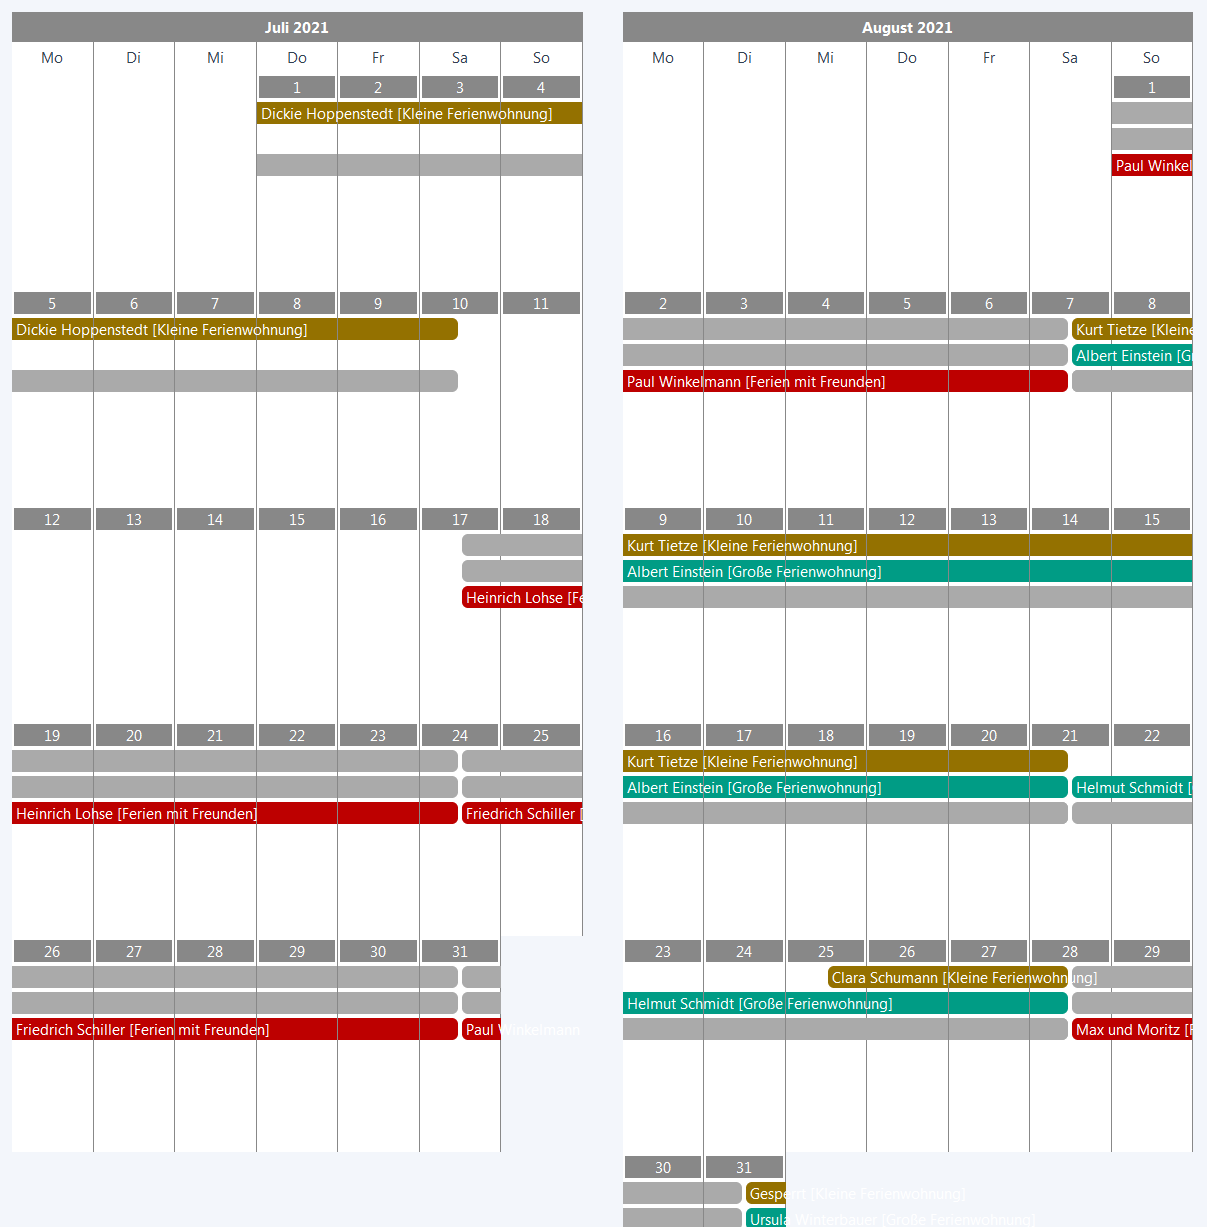
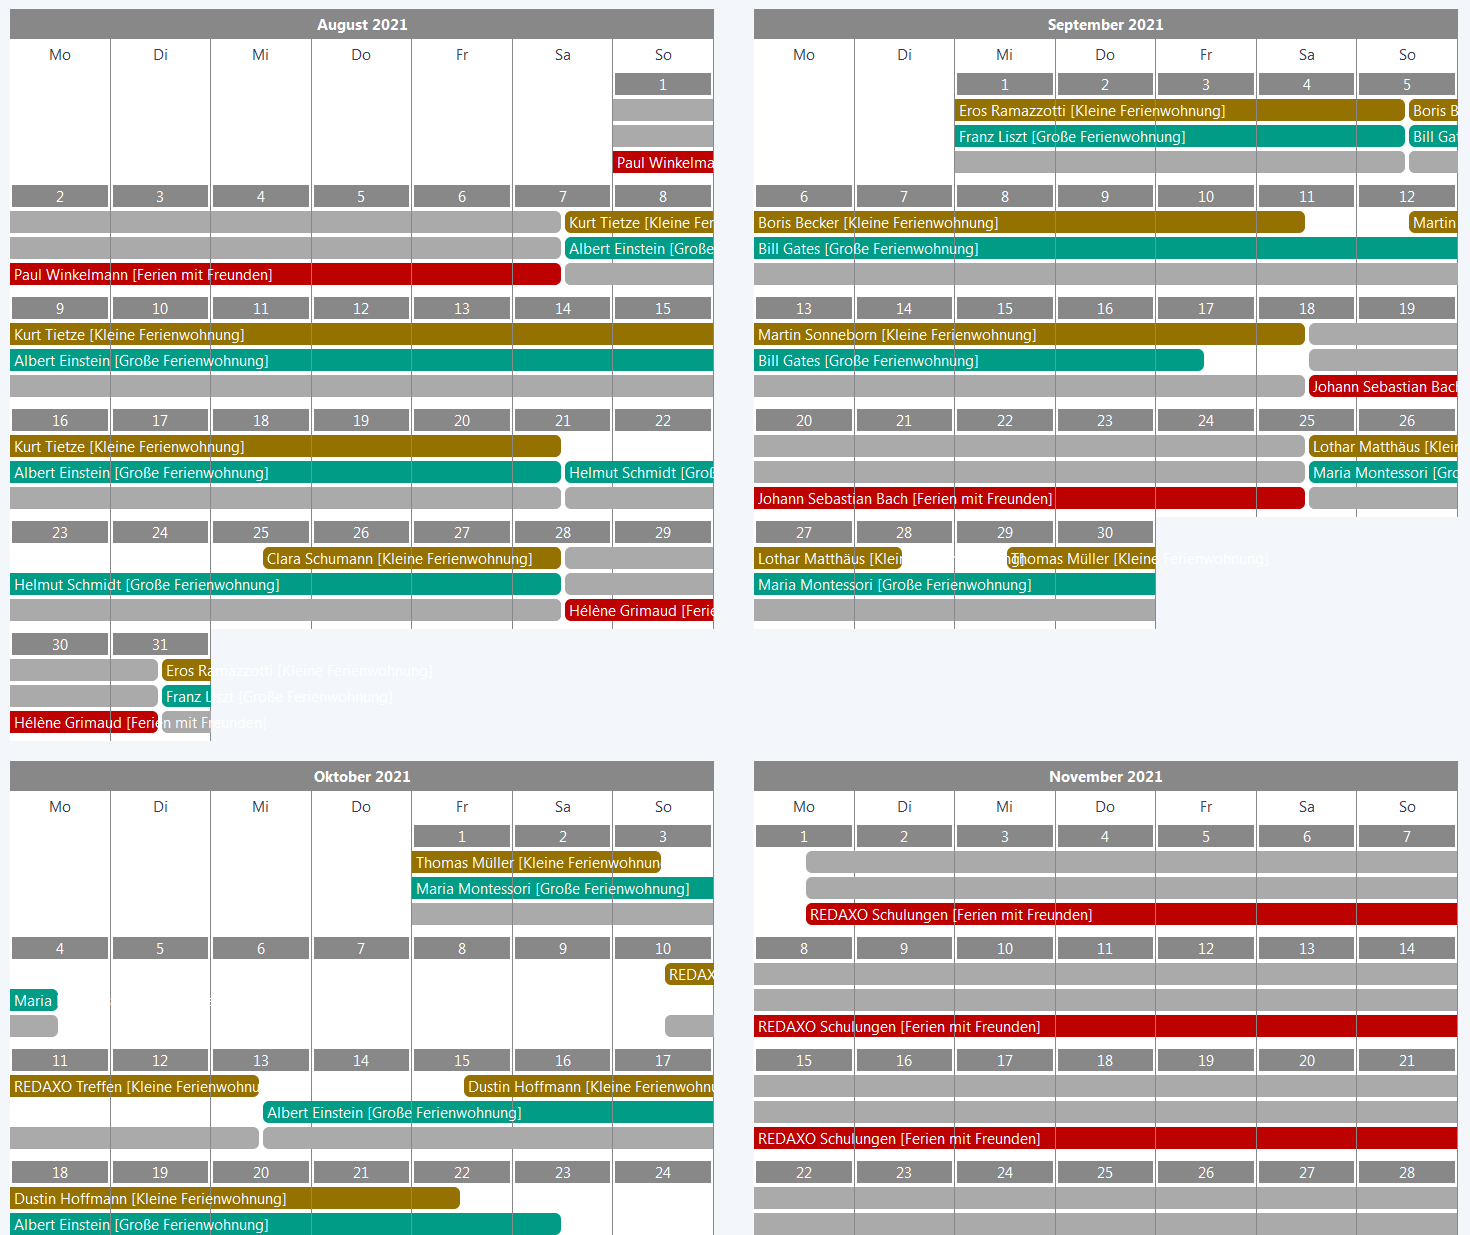
V 1.1.1 - Kollisionsprüfung im Backend

diff --git a/lib/buka_booking.php b/lib/buka_booking.php
@@ -55,14 +55,42 @@ class buka_booking extends rex_yform_manager_dataset {
         return time()+$sek;
     }
 
-    public static function is_booked($anreise = '', $abreise = '', $object_id = 0) {
-        $query = self::get_query($object_id)
-                        ->where('status','confirmed')
-                        ->whereRaw('((dateend > :anreise AND dateend < :abreise) '
-                        . 'OR (datestart > :anreise AND datestart < :abreise) '
-                        . 'OR (datestart <= :anreise AND dateend >= :abreise))',['anreise'=>$anreise,'abreise'=>$abreise]);
-
+    /**
+     * 
+     * $data_id kann verwendet werden, um den aktuellen Datensatz von der Prüfung auszunehmen
+     * 
+     */
+    public static function is_booked($anreise = '', $abreise = '', $object_id = 0, $data_id = 0) {
+        $query = self::get_query($object_id);
+        if ($data_id) {
+            $query->whereNot('id',$data_id);
+        }
+        if (rex_config::get('buchungskalender','asked_offset')) {
+            $query->whereRaw('((
+                status = "confirmed" AND ((dateend >= :anreise AND datestart <= :abreise)
+                 OR (dateend <= :anreise AND datestart >= :abreise)
+                 OR (datestart >= :anreise AND datestart <= :abreise))
+             
+                ) OR (status = "asked" AND bookingdate > :bookingdate))',['anreise'=>$anreise,'abreise'=>$abreise,'bookingdate'=>date('Y-m-d H:i:s',strtotime('-'.rex_config::get('buchungskalender','asked_offset')))])
+            ;
+        } else {
+                $query->where('status','confirmed')
+                ->whereRaw('((dateend > :anreise AND dateend < :abreise) '
+                . 'OR (datestart > :anreise AND datestart < :abreise) '
+                . 'OR (datestart <= :anreise AND dateend >= :abreise))',['anreise'=>$anreise,'abreise'=>$abreise]);
+        }
         return $query->exists();
+    }
+
+
+    /**
+     * Kann im yform als Validate Funktion verwendet werden.
+     */
+    public static function unique_booking ($fields,$values) {
+        $data_id = rex_request('data_id','int');
+        if (buka_booking::is_booked($values['datestart'],$values['dateend'],$values['object_id'],$data_id)) {
+            return true;
+        }
     }
 
     public static function reset_booking () {

diff --git a/pages/bookings.php b/pages/bookings.php
@@ -8,7 +8,7 @@ $row_end = '</div></div>';
 
 $params = $_REQUEST;
 $func = rex_request('func','string');
-$id = rex_request('id','int');
+$id = rex_request('data_id','int');
 
 $qry = buka_booking::get_query();
 
@@ -29,7 +29,7 @@ if ($func == 'edit' && $id) {
     $yform->setValueField('hidden',['page','buchungskalender/bookings','REQUEST','no_db']);
     $yform->setValueField('hidden',['func','edit','REQUEST','no_db']);
     $yform->setValueField('hidden',['src',rex_request('src','string'),'REQUEST','no_db']);
-    $yform->setValueField('hidden',['id',$id,'REQUEST']);
+    $yform->setValueField('hidden',['data_id',$id,'REQUEST','no_db']);
 //    $yform->setDebug(TRUE);
     $yform->setObjectparams('form_showformafterupdate', 0);
     $yform->setObjectparams('getdata', true);
@@ -86,6 +86,8 @@ if ($func == 'edit' && $id) {
     $yform->setValueField('text', ['price','Preis']);
     $yform->setValueField('html',['',$row_end]);
 
+    $yform->setValidateField('customfunction', ['datestart,dateend,object_id','buka_booking::unique_booking','','Dieses Buchungsdatum ist ungültig. Es gibt bereits eine Buchung für dieses Datum.','0']);
+
     $yform->setValueField('be_manager_relation', ['participants','Teilnehmer','rex_buka_participants','booking_id','5','0']);
 
     $yform->setActionField('db',[rex::getTable('buka_bookings'),'main_where']);
@@ -132,7 +134,7 @@ if ($func == 'edit' && $id) {
     // $th_icon = '<a href="'.$list->getUrl(['func' => 'add']).'" title="'.rex_i18n::msg('add').'"><i class="rex-icon rex-icon-add-action"></i></a>';
     $th_icon = '';
     $list->addColumn($th_icon, $td_icon, 0, ['<th class="rex-table-icon">###VALUE###</th>', '<td class="rex-table-icon">###VALUE###</td>']);
-    $list->setColumnParams($th_icon, ['func' => 'edit', 'id' => '###id###', 'start' => rex_request('start', 'int', NULL)]);
+    $list->setColumnParams($th_icon, ['func' => 'edit', 'data_id' => '###id###', 'start' => rex_request('start', 'int', NULL)]);
 
 
     echo $list->get();

diff --git a/lib/buka_objects.php b/lib/buka_objects.php
@@ -1,7 +1,11 @@
 <?php
 class buka_objects extends rex_yform_manager_dataset {
-    public static function get_query() {
-        return self::query()->where('status',1);
+    public static function get_query($online = true) {
+        $query = self::query();
+        if ($online) {
+            $query->where('status',1);
+        }
+        return $query;
     }
 
     public function find_related() {
@@ -13,7 +17,7 @@ class buka_objects extends rex_yform_manager_dataset {
     }
 
     public static function get_object_for_id ($id) {
-        return self::get_query()->where('id',$id)->findOne();
+        return self::get_query(false)->where('id',$id)->findOne();
     }
 
     public static function get_objects_with_prices ($object_id = 0) {
@@ -38,7 +42,14 @@ class buka_objects extends rex_yform_manager_dataset {
     public static function get_name_by_id ($params) {
         if (isset($params['value']) && $params['value']) {
             $object_id = $params['value'];
-            return self::get_object_for_id($object_id)->name;
+            if (!$object_id) {
+                return '-- kein Objekt gewählt --';
+            }
+            $object = self::get_object_for_id($object_id);
+            if (!$object) {
+                return '-- Objekt '.$object_id.' nicht gefunden --';
+            }
+            return $object->name;
         }
         return '--';        
 

diff --git a/pages/overview.php b/pages/overview.php
@@ -49,9 +49,10 @@ $months = $bar_cal->get_months();
 
 <div class="buka_bar_cal">
     <?php foreach ($bar_cal->get_months() as $month) : ?>
+        <?php // dump($month[0]->date) ?>
         <div class="bar_cal_month">
             <div class="bar_cal_month_title">
-                <?= rex_formatter::intlDate($month[0]->date->getTimestamp(), 'LLLL Y') ?>
+                <?= rex_formatter::intlDate($month[3]->date->getTimestamp(), 'LLLL Y') ?>
             </div>
             <?php foreach (buka_barcal::$weekdays as $daystr) : ?>
                 <div class="bar_cal_day">

diff --git a/lib/buka_barcal.php b/lib/buka_barcal.php
@@ -44,6 +44,7 @@ class buka_barcal {
         if (!$this->months) {
             $this->set_start_date();
         }
+//        dump($this->months);
         return $this->months;
     }
 

diff --git a/lib/buka_cal.php b/lib/buka_cal.php
@@ -118,7 +118,6 @@ class buka_cal
              
                 ))',['start'=>$start,'end'=>$end])
             ;
-
         }
         $this->bookings = $query->find();
     }

diff --git a/README.de.md b/README.de.md
@@ -58,7 +58,7 @@ Die Objektverwaltung ist recht schlicht gehalten. Für die Bearbeitung ist kein 
 
 Hier kann der Name des Objektes festgelegt werden und der Grundpreis. Außerdem kann man festlegen, ob es sich um ein Kombinationsangebot handelt - das wurde ja oben bereits ausführlich beschrieben. Als Ergänzung sei hier beschrieben, dass für Kombinationsobjekte durchaus eigene Buchungsdatensätze angelegt werden. Es werden also keine doppelten Buchungsdatensätze für die kleine und die große Wohnung angelegt. Daher ist zum Beispiel eine Umbuchung sehr einfach möglich. Es soll hier alles so intuitiv und einfach wie möglich sein.
 
-In der Objektverwaltung kann auch die Farbe des Objektes für die Darstellung im Streifenkalender eingestellt werden.
+In der Objektverwaltung kann auch die Farbe des Objektes für die Darstellung im Streifenkalender eingestellt werden. Wenn von den ui-tools noch minicolor installiert ist, kann man im Objekt die Farbe aus einem Farbwähler wählen. Ansonsten kann man die Farbe auch per Hexwert, rgb oder Farbname angeben.
 
 ## Saisonverwaltung
 
@@ -100,11 +100,13 @@ Hier ein Hinweis für Anwender von booking.com. Booking.com ist etwas speziell b
 
 Dieses AddOn bringt eine komplette Demo mit. Diese Demo ist dazu gedacht, die Funktionen des AddOns zu zeigen. Man muss eine Ferienwohnungsseite nicht auf der Demo aufbauen. Man kann das AddOn auch verwenden ohne die Demo zu installieren. Da die Dokumentation aber auch nicht zu 100% perfekt ist, empfiehlt es sich durchaus mal in die Demo rein zu schauen. Die Demo kann aber auch als Grundlage für eine komplette Seite verwendet werden. Die Module in der Demo sind für TinyMCE 4 als Editor ausgelegt. Wenn ein anderer Editor verwendet wird, müssen nur die Klassen an der entsprechenden Stelle umbenannt werden. Wir gehen Schritt für Schritt vor.
 
-Basis für die Demo ist eine Grundinstallation eines aktuellen REDAXO. Im Moment ist dies 5.12.0.
+Basis für die Demo ist eine Grundinstallation eines aktuellen REDAXO. Im Moment ist dies 5.13.1.
 
-Dann müssen nur noch die AddOn yform und mform installiert werden.
+Dann müssen nur noch die AddOn yform (>= 4beta) und mform installiert werden.
 
-Optional, aber empfehlenswert sind: yrewrite, theme, tinymce, tinymce4 und natürlich eure anderen Lieblingsaddons.
+Optional, aber empfehlenswert sind: yrewrite, theme, tinymce4 und natürlich eure anderen Lieblingsaddons.
+
+Wenn von den ui-tools noch minicolor installiert ist, kann man im Objekt die Farbe aus einem Farbwähler wählen. Ansonsten kann man die Farbe auch per Hexwert, rgb oder Farbname angeben.
 
 Dann wird das AddOn Buchungskalender installiert und aktiviert.
 

diff --git a/CHANGELOG.md b/CHANGELOG.md
@@ -1,6 +1,31 @@
 Changelog
 =========
 
+
+
+Version 1.1.1 - 26.12.2021
+--------------------------
+
+* Im Backend wird eine Validierung eingeführt, sodass sowohl über yform als auch direkt in der Buchungsliste keine Doppelbuchungen vorgenommen werden können.
+* Demo geupdated für REX 5.13.1
+* Fix: für offline Objekte wird auch der Name in der Buchungsliste angezeigt
+* Fix: im Streifenkalender wird nun auch für den Januar die korrekte Jahreszahl angezeigt
+* Doku erweitert
+
+
+Version 1.1.0 - 25.12.2021
+--------------------------
+
+Der Streifenkalender wird eingeführt. Der Streifenkalender wird direkt als Startseite gezeigt. Über den Streifenkalender kann man die Buchungen auch direkt aufrufen.
+
+* Streifenkalender für Übersichtsdarstellung
+* Verbesserte ical Synchronisation
+* Datenbankerweiterung für Zusatzleistungen
+* Datenbankerweiterung für Teilnehmer/Gäste
+* Umbau auf yform 4beta7
+* Die Dokumentation wird erweitert
+
+
 Version 1.0.0 - 28.07.2021
 --------------------------
 
